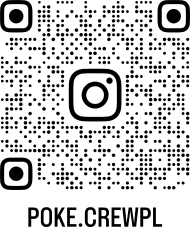
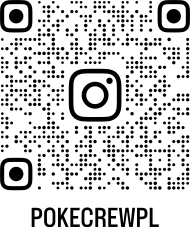
Updated Instagram link and qr code

diff --git a/client/src/views/Homepage.vue b/client/src/views/Homepage.vue
@@ -22,12 +22,12 @@
                     <input ref="uploadInputRef" @change="uploadImage" type="file" accept=".png, .avif, .gif, .jpg, .jpeg, .webp, .heic" multiple hidden>
                 </div>
                 <p class="content__text content__text--right">
-                    {{ $t("home.tag-message") }} <a href="https://www.instagram.com/poke.crewpl" aria-label="Instagram" target="_blank">Instagram</a>
+                    {{ $t("home.tag-message") }} <a href="https://www.instagram.com/pokecrewpl" aria-label="Instagram" target="_blank">Instagram</a>
                 </p>
             </div>
 
             <div class="instagram-qr-code">
-                <a href="https://www.instagram.com/poke.crewpl" aria-label="Instagram" target="_blank">
+                <a href="https://www.instagram.com/pokecrewpl" aria-label="Instagram" target="_blank">
                     <img src="@/assets/images/instagram-qrcode.png" alt="Instagram QR Code"/>
                 </a>
             </div>
